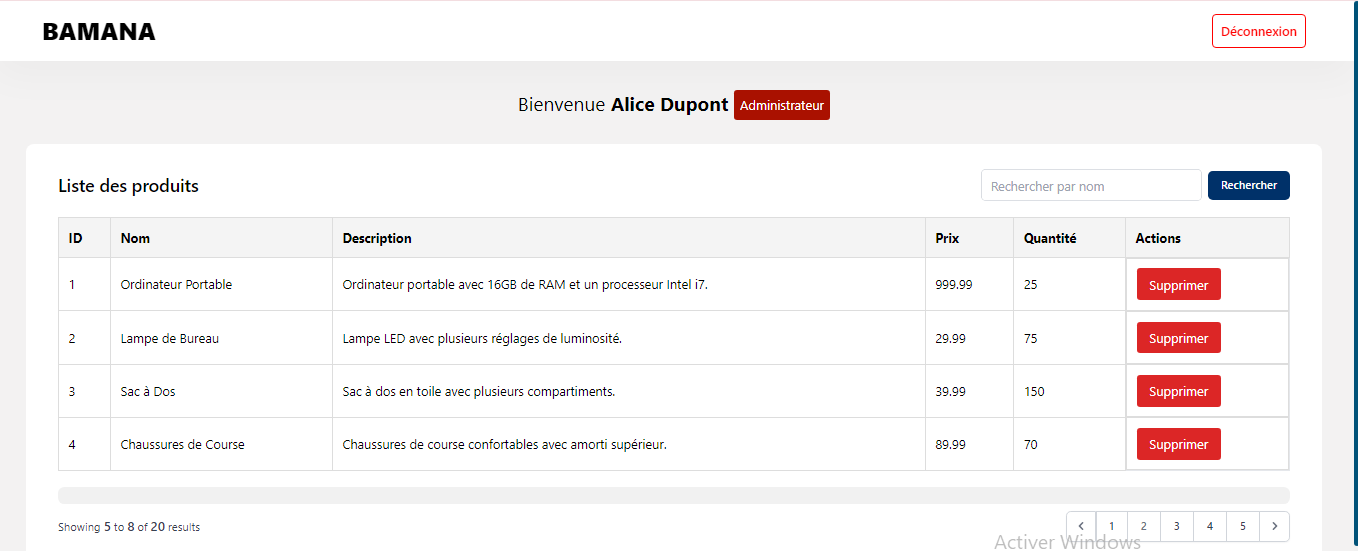
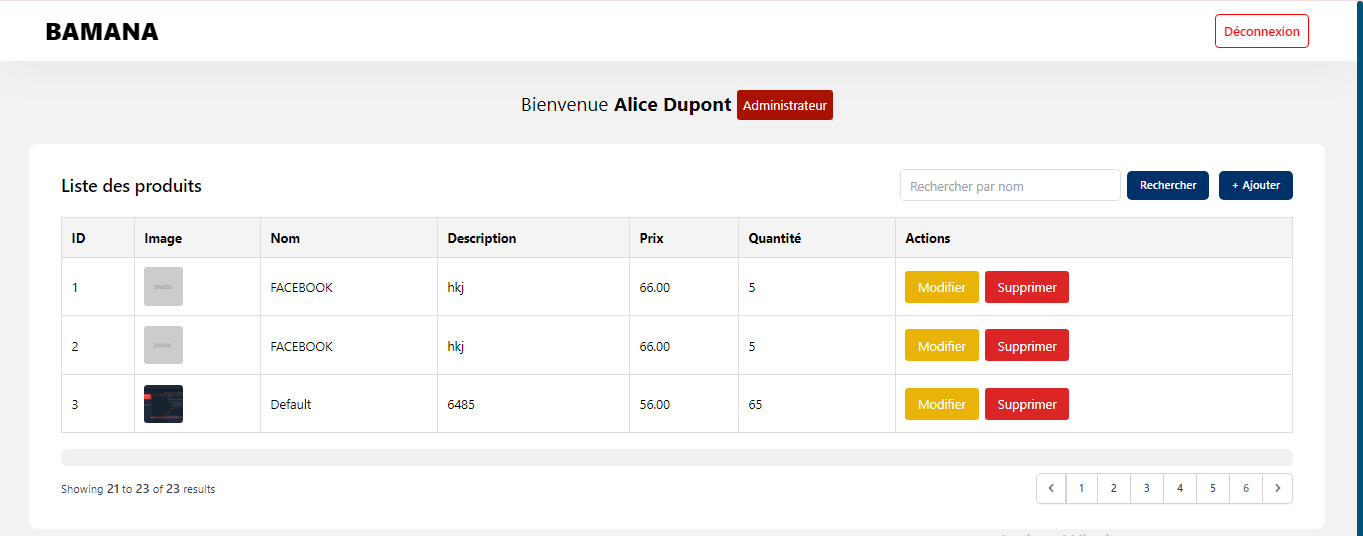
fix bug

diff --git a/resources/views/apps/pages/index.blade.php b/resources/views/apps/pages/index.blade.php
@@ -17,51 +17,70 @@
         <div class=" bg-white px-10 lg:px-10 md:px-3 sm:px-3  py-8 rounded-[10px]">
             <div class="flex justify-between items-center flex-wrap mb-5">
                 <h1 class="font-[600] text-[22px]">Liste des produits</h1>
-                <form action="{{ route('view.landing') }}" method="POST" class="flex items-center justify-center space-x-2">
-                    @csrf
-                    @method('GET')
-                    <div>
-                        <input type="text" name="name"
-                            class="block w-full h-[40px] rounded-md border-0 pl-3 pr-20 text-gray-900 ring-1 ring-inset ring-gray-300 placeholder:text-gray-400 focus:ring-2 focus:ring-gray-600 focus:ring-opacity-50 focus:outline-none focus:shadow-sm"
-                            placeholder="Rechercher par nom">
-                    </div>
-                    <button type="submit"
-                        class="px-4 py-2 text-white text-nowrap bg-[#003169] hover:bg-[#005278] rounded-md text-sm font-medium">Rechercher</button>
-                </form>
+                <div class="flex items-center gap-3 flex-wrap">
+                    <form action="{{ route('view.landing') }}" method="POST"
+                        class="flex items-center justify-center space-x-2">
+                        @csrf
+                        @method('GET')
+                        <div>
+                            <input type="text" name="name"
+                                class="block w-full h-[40px] rounded-md border-0 pl-3 pr-20 text-gray-900 ring-1 ring-inset ring-gray-300 placeholder:text-gray-400 focus:ring-2 focus:ring-gray-600 focus:ring-opacity-50 focus:outline-none focus:shadow-sm"
+                                placeholder="Rechercher par nom">
+                        </div>
+                        <button type="submit"
+                            class="px-4 py-2 text-white text-nowrap bg-[#003169] hover:bg-[#005278] rounded-md text-sm font-medium">Rechercher</button>
+                    </form>
+                    <button class="bg-[#003169] hover:bg-[#005278]  text-white px-4 py-2 rounded-md text-sm font-medium"
+                        onclick="openModal()">
+                        + Ajouter
+                    </button>
+                </div>
             </div>
             <div class="overflow-x-scroll">
                 <table>
                     <thead>
-                        <tr>
-                            <th>ID</th>
-                            <th>Nom</th>
-                            <th>Description</th>
-                            <th>Prix</th>
-                            <th>Quantité</th>
-                            @if (auth()->user()->role == 'admin')
-                                <th>Actions</th>
-                            @endif
-                        </tr>
+                        <th>ID</th>
+                        <th>Image</th>
+                        <th>Nom</th>
+                        <th>Description</th>
+                        <th>Prix</th>
+                        <th>Quantité</th>
+                        @if (auth()->user()->role == 'admin')
+                            <th>Actions</th>
+                        @endif
                     </thead>
                     <tbody>
                         @if ($products && $products->count() > 0)
                             @foreach ($products as $product)
                                 <tr>
                                     <td>{{ $counter++ }}</td>
+                                    <td>
+                                        @if ($product->image_path && $product->image_path != null)
+                                            <img src="{{ asset('storage/' . $product->image_path) }}"
+                                                alt="{{ $product->name }}" class="w-12 h-12 object-cover rounded">
+                                        @else
+                                            <img src="{{ asset('assets/images/profile.jpg') }}" alt="{{ $product->name }}"
+                                                class="w-12 h-12 object-cover rounded">
+                                        @endif
+                                    </td>
                                     <td>{{ $product->name }}</td>
                                     <td>{{ $product->description }}</td>
                                     <td>{{ $product->price }}</td>
                                     <td>{{ $product->quantity }}</td>
                                     @if (auth()->user()->role == 'admin')
-                                        <td class="flex items-center flex-wrap gap-2">
-                                            <form action="{{ route('products.destroy', $product->id) }}" method="POST" id="deleteProductForm"
-                                                class="d-inline">
-                                                @csrf
-                                                <button  onclick="deleteProductAlert()" type="button"
-                                                    class="bg-red-600 text-white py-2 px-4 rounded hover:bg-red-700">
-                                                    Supprimer
-                                                </button>
-                                            </form>
+                                        <td>
+                                            <div class="flex items-center flex-wrap gap-2 w-full">
+                                                <a href="" class="bg-yellow-500 text-white py-2 px-4 rounded hover:bg-yellow-600">Modifier</a>
+
+                                                <form action="{{ route('products.destroy', $product->id) }}" method="POST"
+                                                    id="deleteProductForm" class="d-inline">
+                                                    @csrf
+                                                    <button onclick="deleteProductAlert()" type="button"
+                                                        class="bg-red-600 text-white py-2 px-4 rounded hover:bg-red-700">
+                                                        Supprimer
+                                                    </button>
+                                                </form>
+                                            </div>
                                         </td>
                                     @endif
                                 </tr>
@@ -82,5 +101,60 @@
             </div>
         </div>
     </div>
+
+    <!-- Modal d'ajout de produit -->
+    <div id="addProductModal"
+        class="fixed inset-0  bg-black/60 z-[999] flex h-full w-full bg-opacity-50 hidden justify-center items-center">
+        <div class="bg-white p-6 rounded-lg w-1/3">
+            <div class="flex justify-between items-center mb-4">
+                <h3 class="text-xl font-semibold">Ajouter un produit</h3>
+                <button class="text-gray-500" onclick="closeModal()">&times;</button>
+            </div>
+            <form action="{{ route('products.store') }}" method="POST" enctype="multipart/form-data">
+                @csrf
+                <div class="mb-4">
+                    <label for="name" class="block text-gray-700">Nom du produit</label>
+                    <input type="text" id="name" name="name"
+                        class="w-full px-3 py-2 border border-gray-300 rounded-md" required>
+                </div>
+                <div class="mb-4">
+                    <label for="description" class="block text-gray-700">Description</label>
+                    <textarea id="description" name="description" class="w-full px-3 py-2 border border-gray-300 rounded-md" required></textarea>
+                </div>
+                <div class="mb-4">
+                    <label for="price" class="block text-gray-700">Prix</label>
+                    <input type="number" id="price" name="price"
+                        class="w-full px-3 py-2 border border-gray-300 rounded-md" step="0.01" required>
+                </div>
+                <div class="mb-4">
+                    <label for="quantity" class="block text-gray-700">Quantité</label>
+                    <input type="number" id="quantity" name="quantity"
+                        class="w-full px-3 py-2 border border-gray-300 rounded-md" required>
+                </div>
+                <div class="mb-4">
+                    <label for="image" class="block text-gray-700">Image</label>
+                    <input type="file" id="image" name="image"
+                        class="w-full px-3 py-2 border border-gray-300 rounded-md">
+                </div>
+                <div class="flex justify-end">
+                    <button type="button" class="bg-gray-300 text-gray-700 px-4 py-2 rounded-md mr-2"
+                        onclick="closeModal()">Annuler</button>
+                    <button type="submit" class="bg-[#003169] text-white px-4 py-2 rounded-md">Ajouter</button>
+                </div>
+            </form>
+        </div>
+    </div>
+
+    <!-- Modal de confirmation de suppression -->
     @include('shared.modals.delete')
+
+    <script>
+        function openModal() {
+            document.getElementById("addProductModal").classList.remove("hidden");
+        }
+
+        function closeModal() {
+            document.getElementById("addProductModal").classList.add("hidden");
+        }
+    </script>
 @endsection

diff --git a/app/Http/Controllers/ProductController.php b/app/Http/Controllers/ProductController.php
@@ -12,6 +12,59 @@ class ProductController extends Controller
         return view('products.create');
     }
 
+    public function store(Request $request)
+    {
+        $request->validate([
+            'name' => 'required|string|max:255',
+            'description' => 'nullable|string',
+            'price' => 'required|numeric',
+            'quantity' => 'required|integer',
+            'image' => 'nullable|image|mimes:jpeg,png,jpg,gif,svg|max:2048', 
+        ]);
+
+        $existingProduct = Product::where('name', $request->name)->first();
+        if ($existingProduct) {
+            return redirect()->back()->with('error', 'Un produit avec ce nom existe déjà.');
+        }
+
+        $imagePath = null;
+        if ($request->hasFile('image')) {
+            $imagePath = $request->file('image')->store('images/products', 'public');
+        }
+
+        Product::create([
+            'name' => $request->name,
+            'description' => $request->description,
+            'price' => $request->price,
+            'quantity' => $request->quantity,
+            'image_path' => $imagePath,  
+        ]);
+
+        return redirect()->back()->with('success', 'Produit ajouté avec succès.');
+    }
+
+    // public function edit($id)
+    // {
+    //     $product = Product::findOrFail($id);
+    //     return view('products.edit', compact('product'));
+    // }
+
+    // public function update(Request $request, $id)
+    // {
+    //     $request->validate([
+    //         'name' => 'required|string|max:255',
+    //         'description' => 'nullable|string',
+    //         'price' => 'required|numeric',
+    //         'quantity' => 'required|integer',
+    //         'image_path' => 'nullable|string',
+    //     ]);
+
+    //     $product = Product::findOrFail($id);
+    //     $product->update($request->all());
+
+    //     return redirect()->route('products.index')->with('success', 'Produit mis à jour avec succès.');
+    // }
+
     public function destroy($id)
     {
         $product = Product::findOrFail($id);

diff --git a/routes/web.php b/routes/web.php
@@ -34,7 +34,17 @@ Route::middleware(['roleCheck:admin,customer'])->group(function () {
 });
 
 
+
+// // Route pour afficher le formulaire d'édition d'un produit (edit)
+// Route::get('products/{product}/edit', [ProductController::class, 'edit'])->name('products.edit');
+
+// // Route pour mettre à jour un produit (update)
+// Route::put('products/{product}', [ProductController::class, 'update'])->name('products.update');
+
+
+
 Route::middleware(['roleCheck:admin'])->group(function () {
+    Route::post('products',           [ProductController::class, 'store'])->name('products.store');
     Route::post('products/{product}', [ProductController::class, 'destroy'])->name('products.destroy');
 });
 

diff --git a/resources/views/layouts/sections/navbars/navbar.blade.php b/resources/views/layouts/sections/navbars/navbar.blade.php
@@ -1,5 +1,5 @@
 <header style="z-index:500">
-    <nav class="fixed top-0 left-0 right-0 z-50">
+    <nav class="fixed top-0 left-0 right-0">
         <div class="flex items-center justify-between w-full first-child-nav py-4"
             style="box-shadow: 0 1.2rem 3.2rem rgba(0, 0, 0, 0.03); background-color:rgba(255, 255, 255, 0.97);">
 
